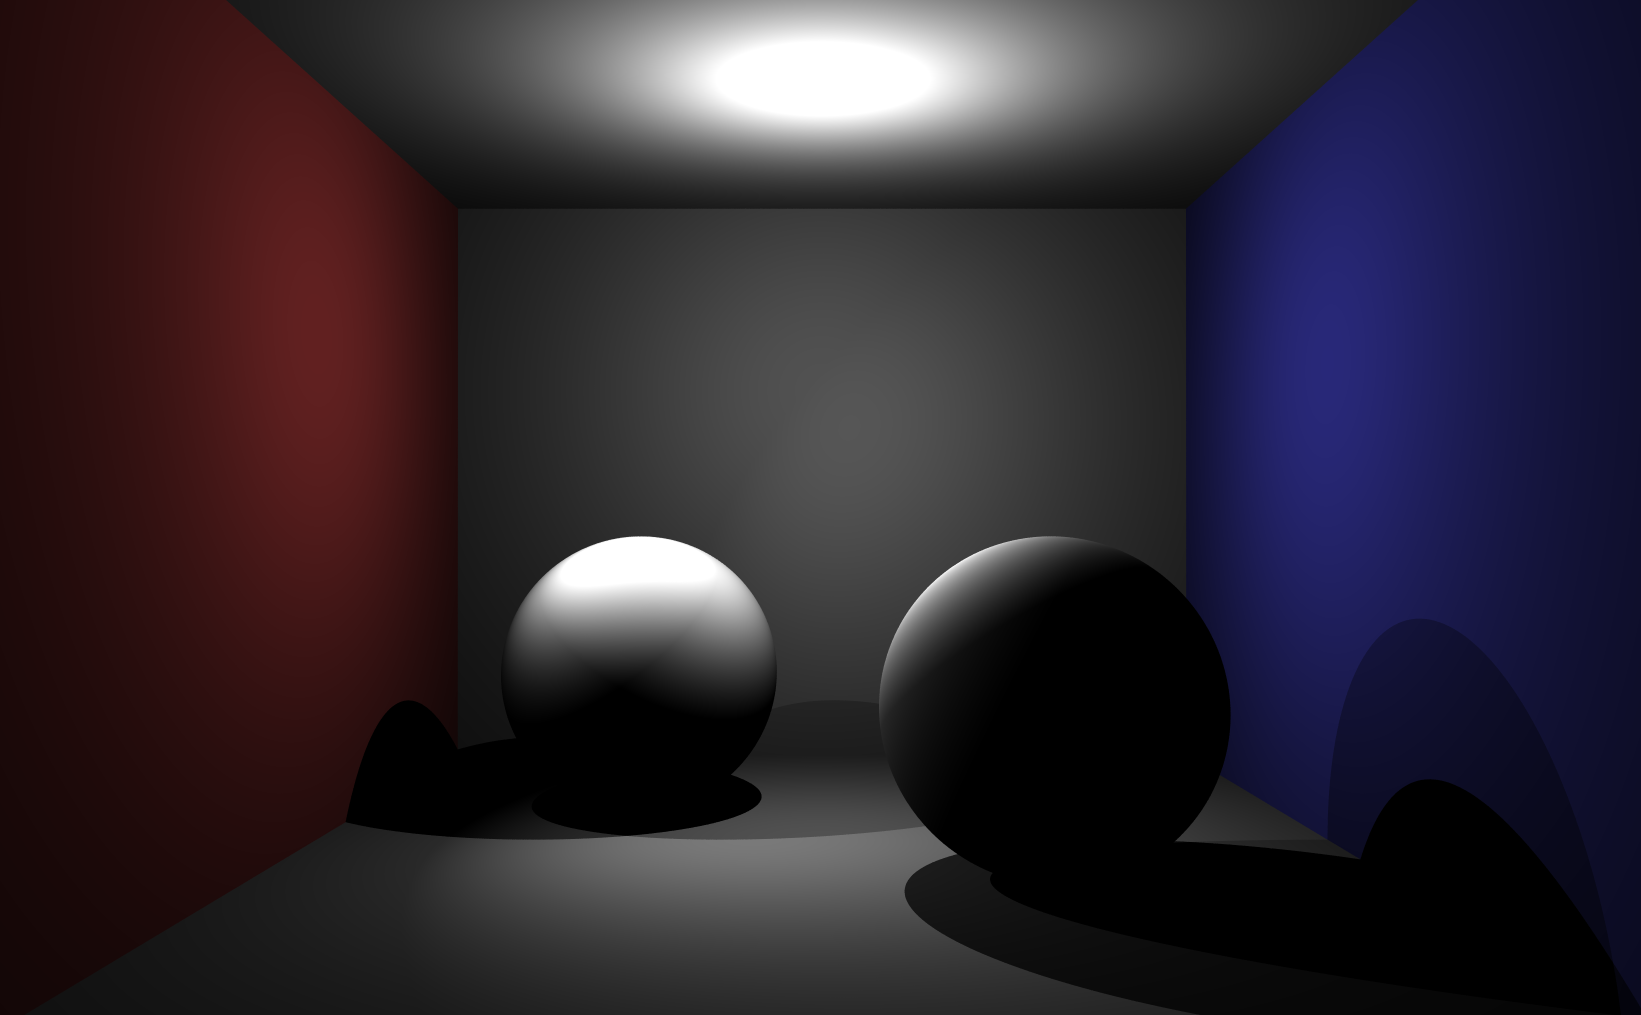
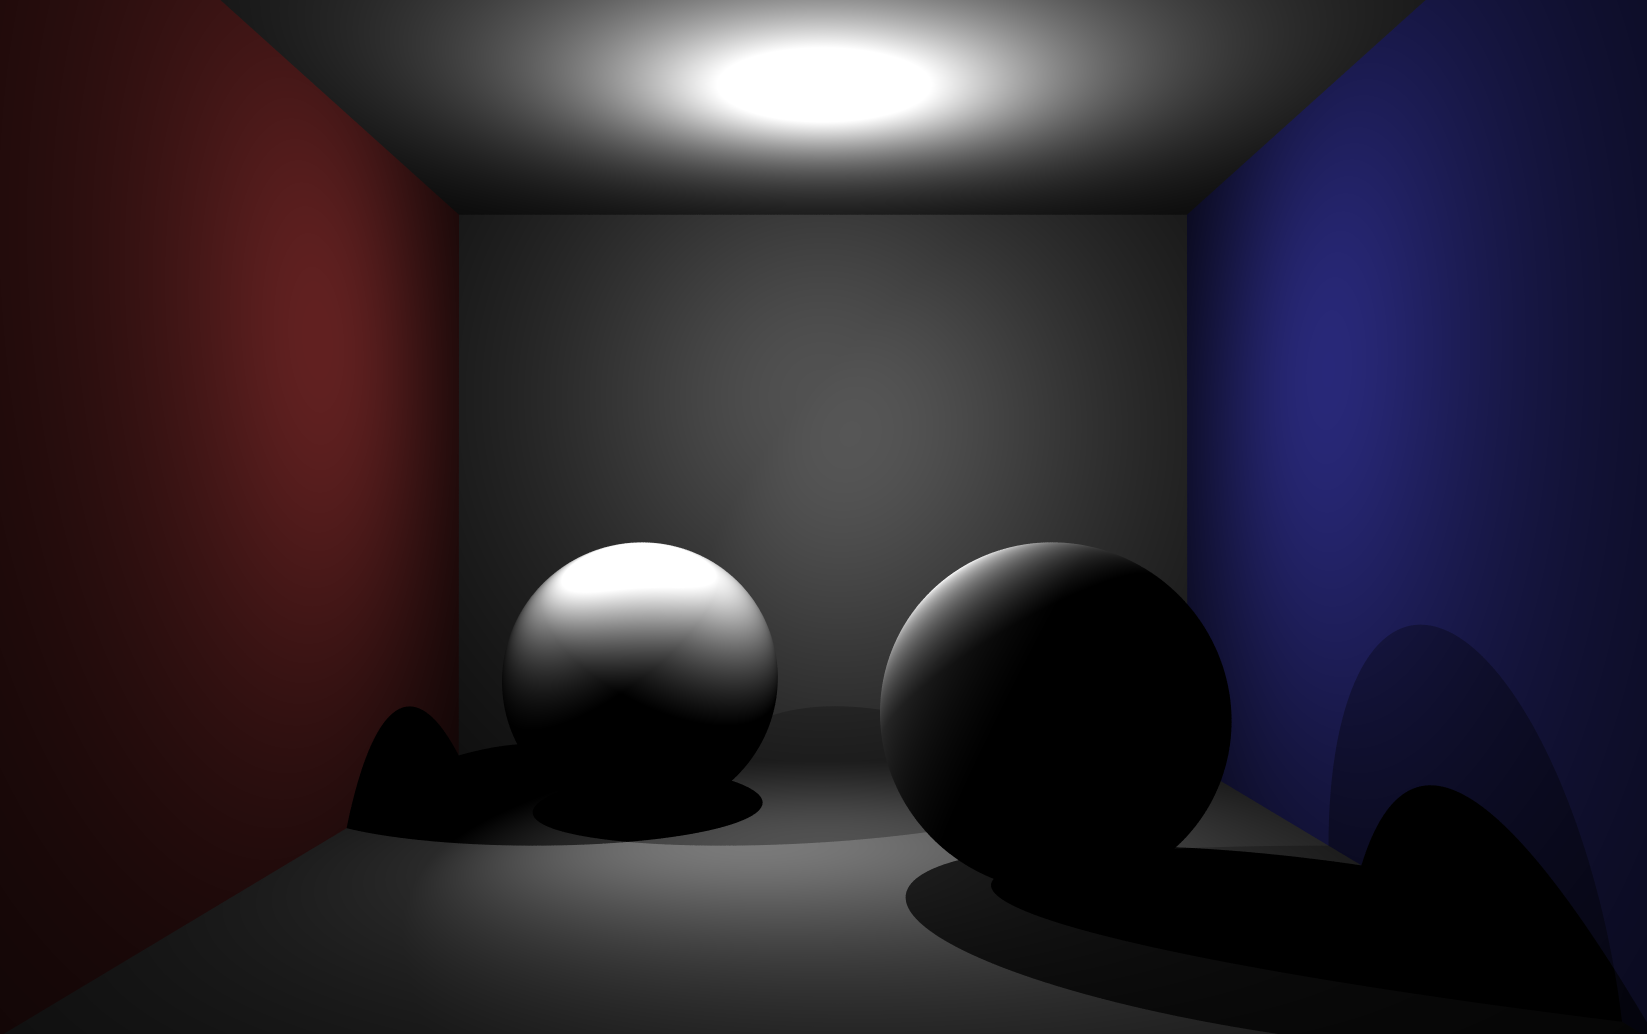
Content Update: 更新了全局光照的内容!
1.引入了 image-comparison-slider 库作为网页的开发工具，感谢开源社区的开发者!
2.介绍了全局光照技术的渲染效果、运行开销、优化算法（Russian Roulette）.

diff --git a/content/entries/2026Fall-Render-from-Scratch/index.md b/content/entries/2026Fall-Render-from-Scratch/index.md
@@ -4,7 +4,7 @@ sections: 	[project]
 publishedAt:	"2026-10-01"
 ---
 
-这这个项目中，我打算从零开始实现一个自己的光线追踪渲染器！这个项目的源代码已经发布到 GitHub [项目主页](https://github.com/LizPink/2026Fall-Renderer-from-Scratch)，这里会同步更新项目的开发信息。
+这这个项目中，我打算从零开始实现一个自己的光线追踪（离线）渲染器！这个项目的源代码已经发布到 GitHub [项目主页](https://github.com/LizPink/2026Fall-Renderer-from-Scratch)，这里会同步更新项目的开发信息。
 
 ## 代码规范
 
@@ -12,18 +12,51 @@ publishedAt:	"2026-10-01"
 
 ### 2026-11-04 漫反射材质
 
-更新了材质设定，在添加了基础光源模块的基础上，引入了基础的材质（Lambert Material）. 这是一个完全漫反射的材质，其 BRDF 为一个常函数。为了检测渲染器的最新功能，我们仍然采用 Cornell Box 作为检测的场景，只不过我们在场景里额外为各个物体添加了 Lambert 材质。
+更新了材质设定，在添加了基础光源模块的基础上，引入了基础的材质（Lambert Material）. 这是一个完全漫反射的材质（反射光能的空间分布是均匀的），其 BRDF 为一个常函数。为了检测渲染器的最新功能，我们仍然采用 Cornell Box 作为检测的场景，只不过我们在场景里额外为各个物体添加了 Lambert 材质。
 
-<img src=".\photos\20261104-CornellBox.png" alt="20261104-CornellBox" style="zoom:33%;" />
+<img src="C:\Users\13377\Desktop\Web\lizpink-terminal\content\entries\2026Fall-Render-from-Scratch\photos\20261104-CornellBox.png" alt="20261104-CornellBox" style="zoom:33%;" />
 
 可以看到，在这样一个具有两个光源的直射光场景中，漫反射材质整体不会有特别明亮的反射点。因为没有引入全局光照（间接光照部分），整个场景的亮度还是偏低，有一种比较暗淡的感觉。
 
+### 2026-11-09 间接光照技术
 
+晚上好，我们最近引入了新的照明技术——间接光照技术（Indirect Lighting），这将完善我们已有的直接光照技术，使我们的照明渲染从局部光照拓展为全局光照！对于同样的场景，采用全局光照技术渲染的对比结果如下，明显比上一次更新时渲染的场景更加明亮了，同时左右两边墙体的反光颜色也能反映在天花板和球体表面上。
 
-## 2026-11-？ 间接光照技术
+:::compare
 
-预告：我们最近将引入新的照明技术——间接光照技术（Indirect Lighting），这将完善我们已有的直接光照技术，使我们的照明渲染从局部光照拓展为全局光照！
+<img src="C:\Users\13377\Desktop\Web\lizpink-terminal\content\entries\2026Fall-Render-from-Scratch\photos\20261104-CornellBox.png" alt="20261104-CornellBox" style="zoom:33%;" />
 
-## 2026-11-？ 镜面反射材质
+<img src="C:\Users\13377\Desktop\Web\lizpink-terminal\content\entries\2026Fall-Render-from-Scratch\photos\2026-11-09-CornellBox(1).png" alt="2026-11-09-CornellBox(1)" style="zoom:33%;" />
+
+:::
+
+通过另外一张更加明显的场景图片，我们可以看到，全局光照技术极大提升了场景渲染的真实度。例如在天花板，你可以看到天花板的左侧被红色的光映照成了浅红色、天花板的右侧被蓝色光映照成了浅蓝色；与此同时在左边的小球中，左侧表面被红色的墙体反射成了红色、右侧的表面被右边的墙体反射成了蓝色。
+
+<img src="C:\Users\13377\Desktop\Web\lizpink-terminal\content\entries\2026Fall-Render-from-Scratch\photos\2026-11-09-CornellBox(2).png" alt="2026-11-09-CornellBox(2)" style="zoom:33%;" />
+
+当然全局光照技术并不是百利而无一害的，为了引入局部光照，我们需要更多的计算开销才能渲染一个像素点。也就是说渲染上面这张图片的时间比渲染之前图片的时间明显增加了。
+
+> 在我们的测试中，设置 Release 模式、渲染 1920x1080 个像素、同时开启 20 个渲染线程、每个像素采样 100 次、全局光照最大递归深度为 10 层），在实验组和对照组各自进行了 5 次测试。情况表明：在开启直接光照的情况下，渲染时间的中位数为 47 秒，而开启了全局光照之后，这一数字跃升至 274 秒。
+
+为此，在项目中我们采用了一项优化技术——俄罗斯轮盘（Russian Roulette）算法，在保证采样精度的情况下尽可能缩短渲染的时间，以下是俄罗斯轮盘算法的优点：我们的局部光照技术是使用递归完成计算的，为了防止计算的开销过大，我们限制了最大递归深度。因此，理论上如果需要还原真实的亮度，需要进行无限次递归。如果限制了采样（递归）次数，那么得到的估计值，在统计意义上一定是存在系统性偏误的。俄罗斯轮盘算法引入了统计意义上无偏的估计方法：每次计算时随即开始抛硬币，如果不幸则停止递归（计算反射光），如果幸运采取递归，并且对计算的亮度结果进行奖励，以补偿没有采取递归（没有计算反射光）的亮度损失。
+
+> 比如，一种俄罗斯轮盘算法如下：进行成功概率为 0.8 的一次赌博。如果成功，就递归计算采样值，并且将采样值除以0.8 补偿不采样时造成的损失，否则就不递归采样。
+
+在具体实现中，我们会同时结合递归限制与俄罗斯轮盘算法进行采样计算，设置一个最大 Max 和最小 Min 的深度：保护前 Min 次的反射光计算以保证精度，同时最多进行 Max 次计算以节省计算开销。这样做的好处是可以避免过于不幸（导致实际精度损失）和过于幸运（计算开销过大）的问题，同时仍然保持不错的渲染效果。
+
+> 在我们的测试中，设置 Release 模式、渲染 1920x1080 个像素、同时开启 20 个渲染线程、每个像素采样 100 次、全局光照迭代最大递归深度为 12 层、俄罗斯轮盘有 80% 的存活率，在实验组和对照组各自进行了5次交替渲染。结果表明：开启了俄罗斯轮盘算法的实验组，渲染时间的中位数为 183.83 秒，范围为164.75～200.40秒。没有开启俄罗斯轮盘算法的对照组，渲染时间的中位数为 277.26秒，范围为 267.29～305.18秒，总体节省了节时 33.70% 的渲染时间。
+
+:::compare
+
+<img src="C:\Users\13377\Desktop\Web\lizpink-terminal\content\entries\2026Fall-Render-from-Scratch\photos\20261109-RussianRoulette-OFF.png" alt="20261109-RussianRoulette-OFF" style="zoom:33%;" />
+
+<img src="C:\Users\13377\Desktop\Web\lizpink-terminal\content\entries\2026Fall-Render-from-Scratch\photos\20261109-RussianRoulette-ON.png" alt="20261109-RussianRoulette-ON" style="zoom:33%;" />
+
+:::
+
+### 2026-11-？ 镜面反射材质
 
 预告：我们最近将引入新的材质——镜面反射材质（Specular Material），这将是完全不同于 Lambert 的材质，它具有完全的镜面反射性质，也就是说它的 BRDF 将只在某一个特定方向具有脉冲分布！
+
+具体来说，镜面材质的 BRDF 分为两种情况：导体和绝缘体。因为物质内部的电子行为会影响光的作用效果，需要分别讨论。针对导体，物理学家菲涅尔（Fresnel）在1820年代通过实验确定了光学折射的规律：
+

diff --git a/README.md b/README.md
@@ -22,7 +22,8 @@ lizpink-terminal/
 │       │   ├── command-input.css     # 命令输入区
 │       │   ├── content-sidebar.css   # 左侧内容目录
 │       │   ├── article-outline.css   # 本页目录与阅读布局
-│       │   └── image-viewer.css      # 同页图片预览与暗背景
+│       │   ├── image-viewer.css      # 同页图片预览与暗背景
+│       │   └── image-comparison.css  # 两图分割线对比与标签
 │       ├── js/
 │       │   ├── app.js                # 页面初始化、路由与终端交互
 │       │   ├── commands.js           # 命令定义、补全候选与帮助正文
@@ -32,9 +33,11 @@ lizpink-terminal/
 │       │   ├── content-sidebar.js    # 左侧目录、折叠与调宽
 │       │   ├── article-outline.js    # 本页目录与章节定位
 │       │   ├── image-viewer.js       # 图片预览、关闭与原位置恢复
+│       │   ├── image-comparison.js   # 对比画布尺寸、键盘与加载状态
 │       │   ├── sidebar-shortcuts.js  # 左右目录快捷键
 │       │   ├── output-motion.js      # 分段输出动效
 │       │   └── theme.js              # 主题切换与偏好
+│       ├── vendor/img-comparison-slider/ # 本地图片对比组件及 MIT 许可
 │       └── fonts/                    # 随网站发布的字体及授权说明
 │           ├── noto-sans-sc.css      # 中文字体按字形范围加载
 │           ├── noto-sans-sc/         # 101 份 Noto Sans SC WOFF2 分片
@@ -134,6 +137,17 @@ updatedAt:		"2026-11-07" # 可省略，默认自动计算
 
 正文可以混写常见 HTML，例如 `<a href="https://example.com">项目主页</a>` 或 `<img src=".\photos\screenshot.png" alt="项目截图" style="zoom:33%;">`。Markdown 和 HTML 的素材路径均支持正斜杠、反斜杠，以及指向本篇素材的本机绝对路径；生成网站时统一转为发布路径，素材仍需放在本篇文章文件夹内。详细格式见 [内容维护指南](docs/CONTENT.md)。
 
+需要比较两次渲染结果时，在正文中直接写一个 `:::compare` 块，里面恰好放两张图片。第一张在分割线左侧，第二张在右侧；图片说明作为两侧标签。以下示例外层的代码围栏只用于 README 展示，写入正文时只复制其中内容：
+
+```markdown
+:::compare
+![仅直接光照](./photos/before.png)
+![加入间接光照](./photos/after.png)
+:::
+```
+
+块内也支持 HTML `<img>`，沿用第一张图的 `width` 或 `zoom` 设置整个对比区域的显示大小。鼠标或触摸可拖动分割线，键盘聚焦后用左右方向键调整，点击“放大对比”可进入灯箱继续比较。两图放进以第一张图比例为准的共同画布，保持各自原比例、完整显示；比例稍有差异时允许留边，不自动裁剪或拉伸。截图范围或视角不同仍需先对齐。一个块只接受两张图片，不混入视频和其它正文；写法不完整时构建会指出问题。
+
 2、当你创建好本地的内容文件之后，可以先进行构建测试与本地预览。具体而言，在项目根目录打开终端，运行命令。如果结果正常，则打开终端显示的网址，就可以看到预览内容。
 
 ```shell
@@ -142,3 +156,11 @@ npm run dev
 ```
 
 3、当确认预览内容没有问题后，将新增文件提交到 Git 仓库，并合并、推送到 `main` 分支。GitHub 会自动检查并发布网站。
+
+## 第三方来源与许可
+
+图片拖动对比使用 [img-comparison-slider](https://github.com/sneas/img-comparison-slider)，许可证版权署名为 **Dmytro Snisarenko（Copyright © 2019）**。本项目固定使用 **8.0.7**，以 [npm 同版本发布包](https://www.npmjs.com/package/img-comparison-slider/v/8.0.7) 为来源，采用 **MIT License**。
+
+运行库及上游许可证保存在 [`site/assets/vendor/img-comparison-slider/`](site/assets/vendor/img-comparison-slider/)，随静态网站一同发布；访客使用时无需连接 CDN。本网站自己的 `image-comparison.js`、`image-comparison.css` 和文章构建逻辑负责对比块语法、图片尺寸适配、标签及灯箱集成。上游的使用方式和参数见 [组件文档](https://github.com/sneas/img-comparison-slider/blob/master/packages/img-comparison-slider/README.md)。
+
+获取来源：运行库、样式与 source map 来自 [8.0.7 发布压缩包](https://registry.npmjs.org/img-comparison-slider/-/img-comparison-slider-8.0.7.tgz)，许可证保留自 [上游 LICENSE](https://github.com/sneas/img-comparison-slider/blob/master/LICENSE)。上游文件原样保留，页面使用本站自有样式，不加载 vendor 的 `styles.css`。

diff --git a/docs/DESIGN.md b/docs/DESIGN.md
@@ -241,7 +241,8 @@ content-index.js负责栏目归属、hash及日期。点击目录条目或最近
 - **会话与阅读**：屏幕只保留当前页面与唯一输入区，命令历史仍可↑↓回调实际输入；数字和中文简写执行后统一回显英文规范命令，如2为resume。键盘栏目命令替换页面并置顶，未知命令不清屏；侧栏及帮助的浏览按钮清会话，聚焦正文并从顶部阅读，避免唤起手机输入。home回首页。open展开当前分区全部正文并定位阅读起点，命令模式中继续保留输入焦点；close或/回输入。
 - **首页与概览数据**：name用于品牌，首页展示greeting、role、interests和about；role只填“学生”，职业标签由UI添加且使用与关注行一致的普通次要文字色，关注行按主区剩余宽度排布，about保持可读限宽。顶层description已删除，不再生成description meta。paths只保留description，原introduction合并删除。life/resume/project展示常驻说明和最多10条更新日期优先的最近内容；左侧仍是全量，界面不显示媒体数量。help正文依次显示“浏览路线”“操作”和“侧栏快捷键”，底部仅保留六条编辑快捷键；文章数据由构建器生成，命令来自commands.js。
 - **内容**：站点资料在content/site.yml，每篇在content/entries/{key}/index.md，媒体随篇保存，归属由sections决定。Markdown可混写常见HTML；经HTML语法树转换为统一标题、链接、列表、表格及媒体结构，不直接输出任意HTML。脚本及不支持的标签显示为文本，事件属性丢弃，代码示例保持原样。HTML和Markdown共用分隔符及绝对路径转换，旧机器路径可按content/entries/{key}/定位本篇素材，最终真实文件仍限定在本篇目录。图片与MP4分别生成图片和视频，同名.poster.*与.zh.vtt作为封面/字幕；未引用素材不展示。HTML图片支持受控width与zoom参数，图注居中。元信息与生成数据不含example/dateExample；不预置示例文章或素材，实际内容由作者维护。替换媒体同步alt、图注、封面与字幕。
-- **图片预览**：`site/assets/js/image-viewer.js` 与 `site/assets/css/image-viewer.css` 提供同页居中预览，保持原比例并适应可见区域，小图不强行放大。仅使用暗背景与右上角×关闭入口，`Esc`或图片外空白也可关闭；关闭后焦点回原图且保留原滚动位置。预览内Esc优先关闭图片，不触发背后命令模式。`Ctrl`/`Meta`/`Shift`点击保留原图外链，无法使用同页预览时沿用链接；视频仍为原生控件，不增加轮播、缩放或Markdown配置。
+- **图片预览**：`site/assets/js/image-viewer.js` 与 `site/assets/css/image-viewer.css` 提供同页居中预览，保持原比例并适应可见区域，小图不强行放大，底部图注居中。仅使用暗背景与右上角×关闭入口，`Esc`或图片外空白也可关闭；关闭后焦点回原图且保留原滚动位置。预览内Esc优先关闭图片，不触发背后命令模式。`Ctrl`/`Meta`/`Shift`点击保留原图外链，无法使用同页预览时沿用链接；视频仍为原生控件，不增加轮播或滚轮缩放。
+- **图片对比**：`:::compare` 接受恰好两张 Markdown 或 HTML 图片，共用既有路径校验、素材复制及版本化；代码围栏内不识别。第一张的受控 width/zoom 决定正文显示大小，首图自然比例决定共同画布，两图 object-fit:contain，不拉伸、不自动裁剪。使用本地固定版本 img-comparison-slider，主题沿用本站颜色与字体，支持鼠标、触摸、键盘方向键及两侧标签。“放大对比”复用原生灯箱，在可见舞台内等比显示比较画布，关闭后恢复阅读位置与触发按钮焦点。组件来源、版本与许可记录在 README 及 vendor 目录。
 - **主题与焦点**：模式组内两个原生按钮支持Tab、Enter和Space，aria-pressed与页面同步，只有主动选择才保存；按钮/链接焦点为2px强调轮廓；正文偏移5px，模式按钮、目录控件、条目与分隔柄使用内侧轮廓。
 - **控件选择与鼠标焦点**：按钮、原生summary、工具栏、目录和帮助快捷键文字使用user-select:none，正文与输入继续可选择复制。仅鼠标主键按下按钮时阻止默认获焦，click仍执行；保留键盘Tab及Enter/Space、触摸、链接、原生details和媒体行为，不移除tabindex或全局隐藏焦点。
 

diff --git a/docs/PRODUCT.md b/docs/PRODUCT.md
@@ -61,6 +61,8 @@ LizPink 个人终端是一个个人网站，用于介绍自己、整理经历、
 
 点击正文图片，可在当前页面的暗背景中查看大图。按 `Esc`、右上角的 × 或图片外的空白处关闭，回到原来的阅读位置。按住 `Ctrl`、`Meta` 或 `Shift` 点击时，保留浏览器打开原图的方式。
 
+文章可用 `:::compare` 将两张图片组合成分割线对比区域，支持 Markdown 或 HTML 图片。拖动分割线查看前后变化，键盘聚焦后可用左右方向键调整；点击“放大对比”，在同页灯箱内继续比较。两图按第一张的画布比例完整显示，各自保持原比例，允许少量留边。两侧标签来自图片说明，灯箱下方的说明居中；关闭后回到原来的阅读位置。
+
 视频使用浏览器自带的播放控件。收起内容或离开页面时，旧页面中的视频会暂停。栏目全文在首次展开时才创建对应正文和媒体，减少初次浏览时的加载量。
 
 一篇文章可以包含多张图片和多个视频。素材可按 `photos/`、`videos/` 等子文件夹整理；每个视频按所在文件夹和名称匹配自己的可选封面、字幕，不同子文件夹可使用相同的视频文件名。
